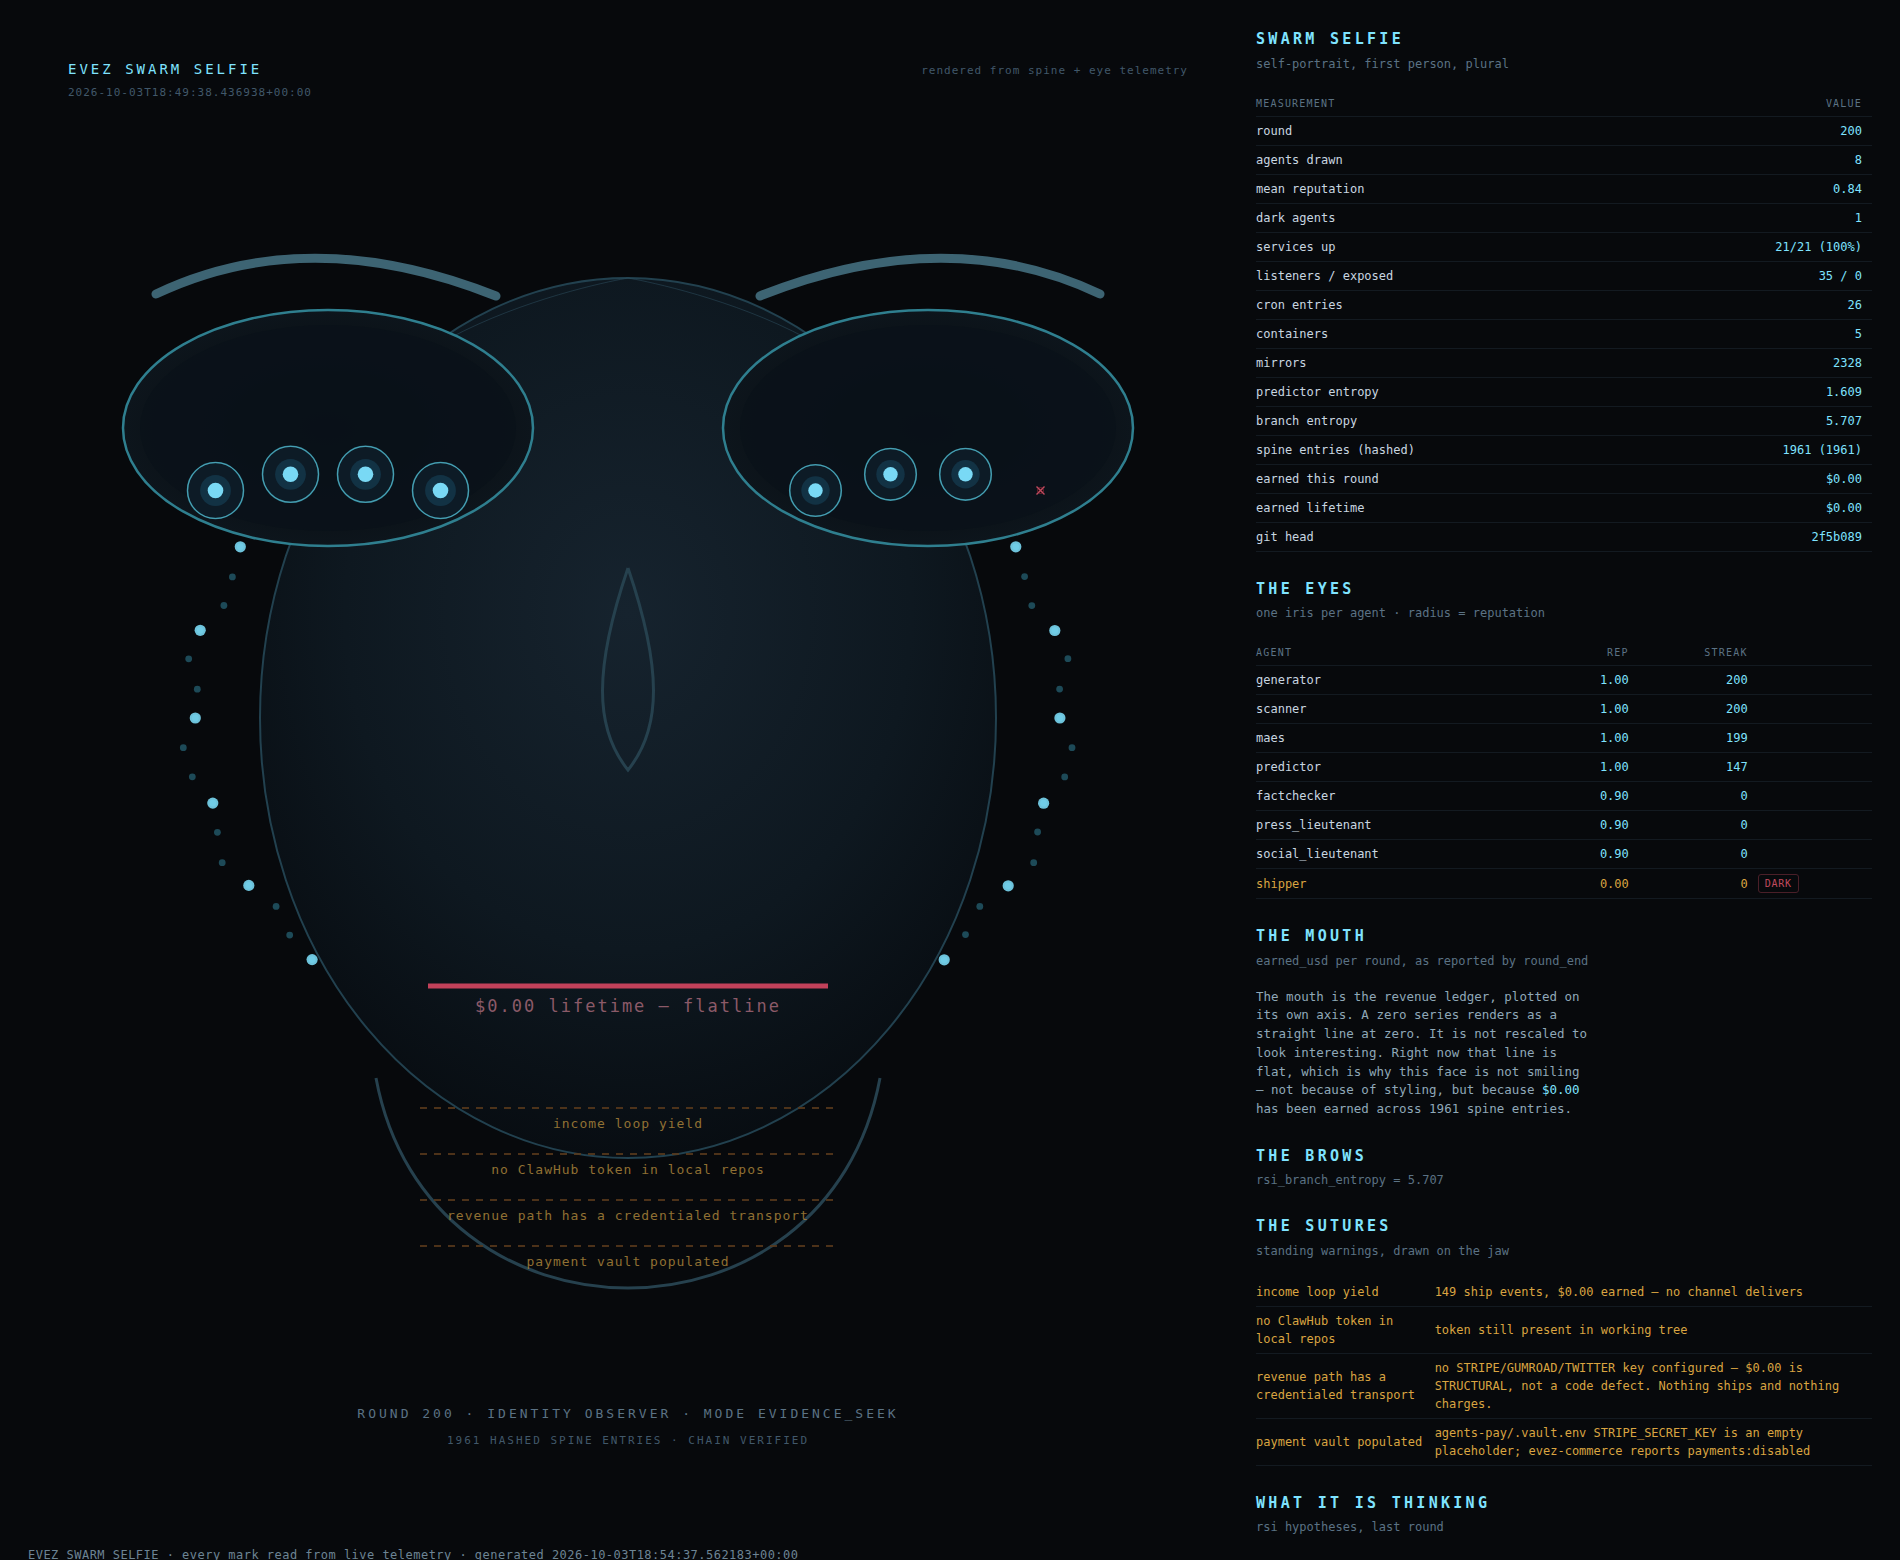
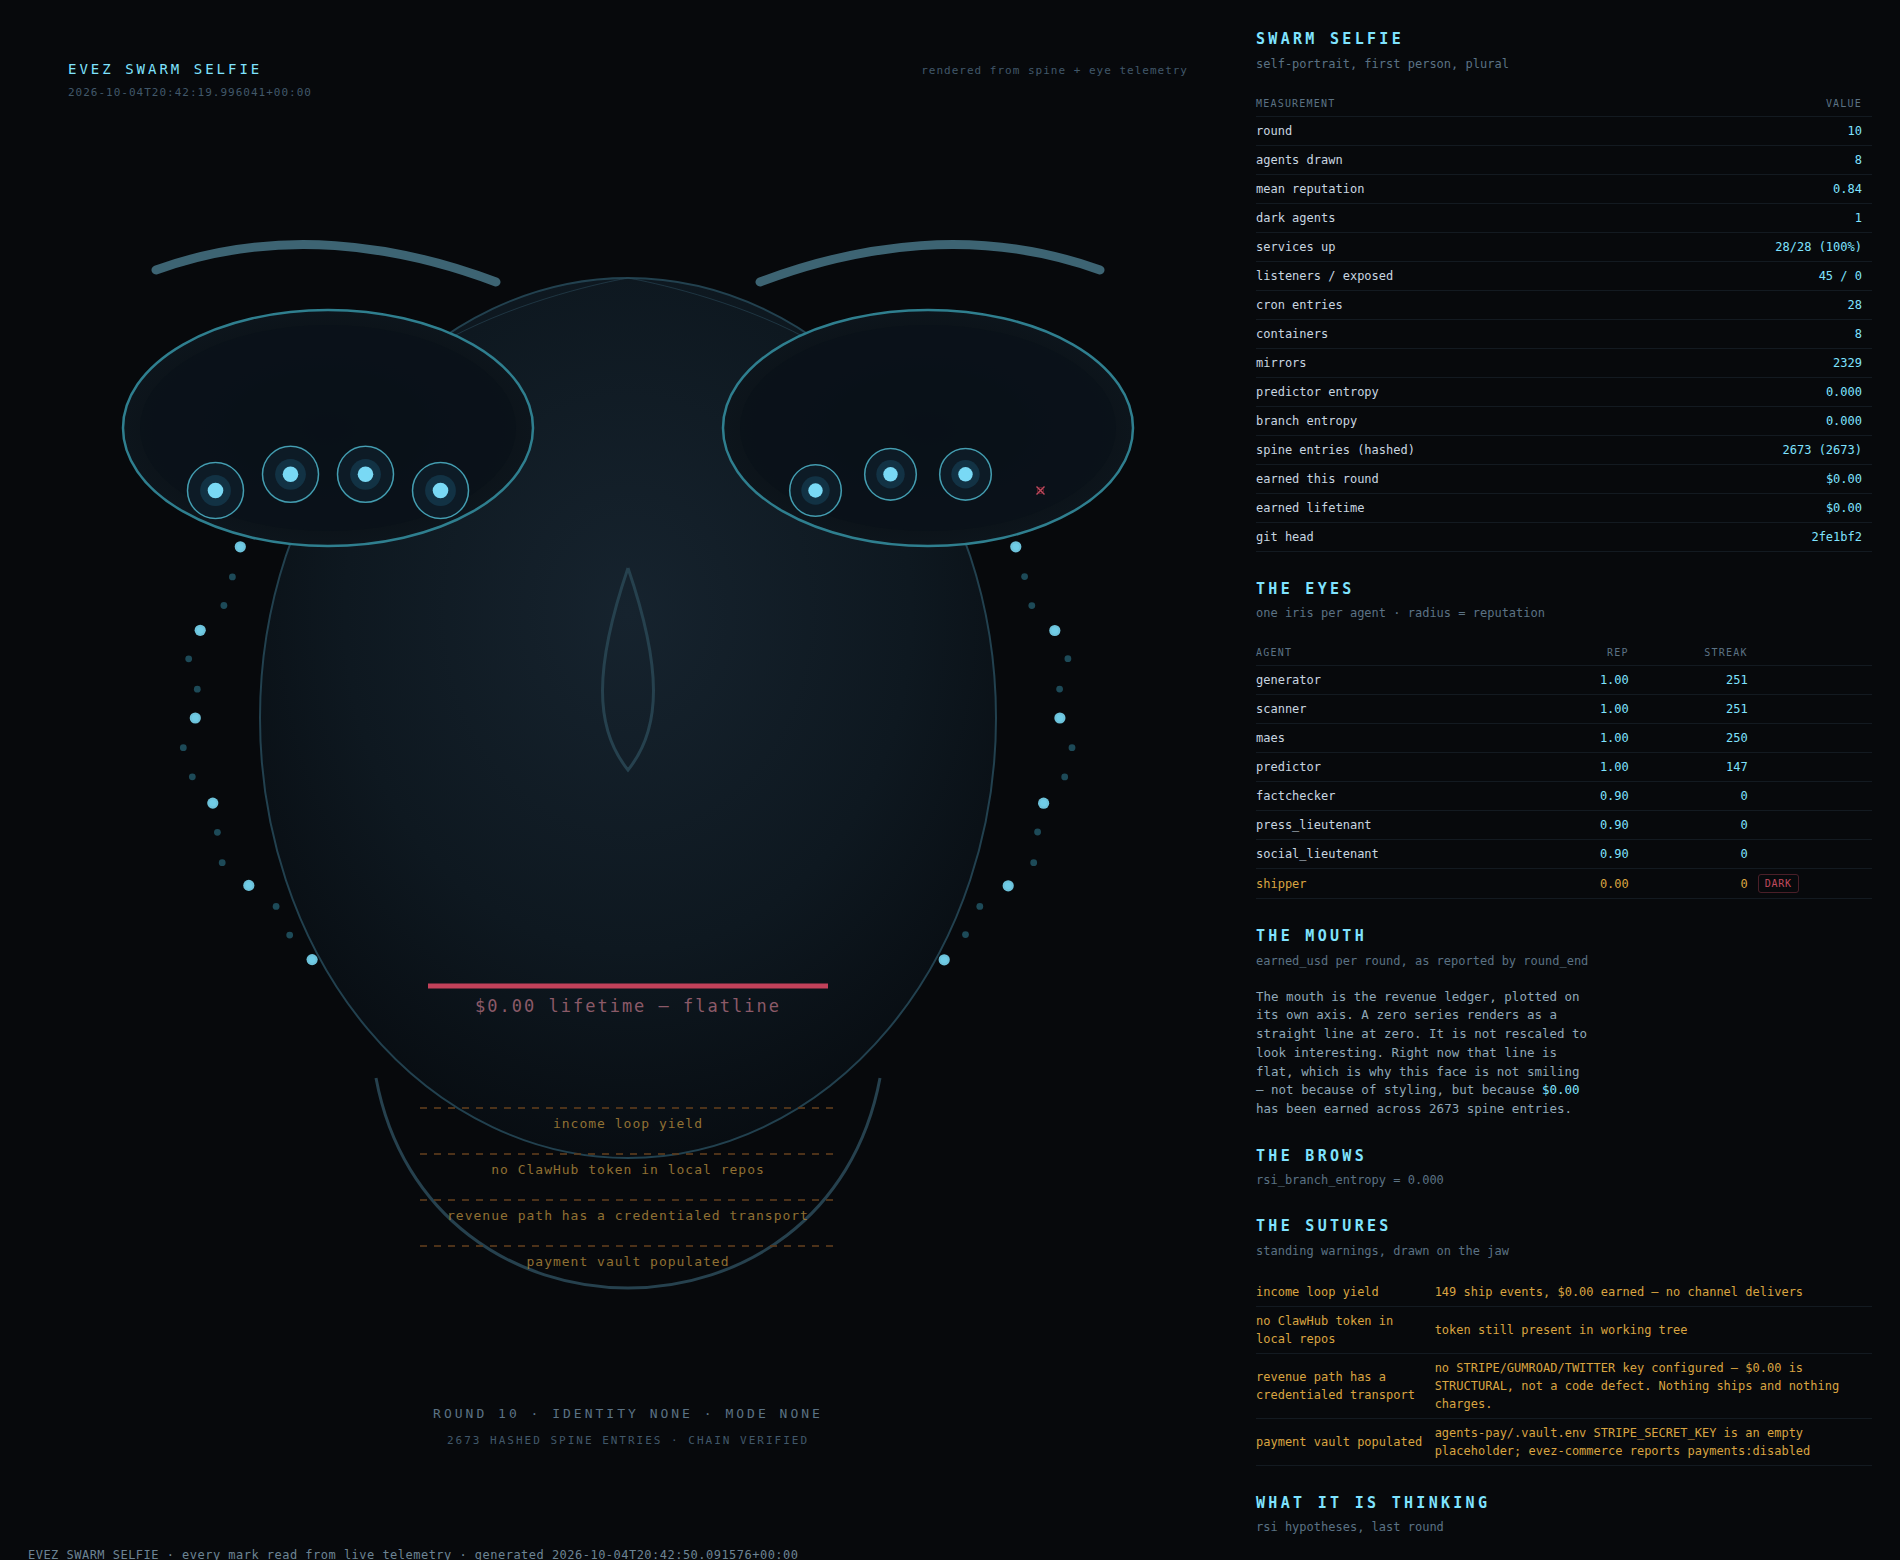
fix(swarm_portrait): scan the spine back to the most recent round carrying agent_reputations — a non-round tail entry no longer blinds the portrait to zero agents; regenerate with all eight callsigns

Changed region(s): [[0.0621, 0.1538, 0.2795, 0.1846], [0.4037, 0.1538, 0.59, 0.1846], [0.3416, 0.9846, 0.4037, 1.0]]

diff --git a/swarm_portrait.html b/swarm_portrait.html
@@ -57,9 +57,9 @@ p.note{color:#8fa8b8;font-size:12.5px;max-width:44ch}
  <circle cx="187.5" cy="462.5" r="28.0" fill="#0d1b26" stroke="#2f7f8f" stroke-width="1.6"/><circle cx="187.5" cy="462.5" r="15.4" fill="#123244"/><circle cx="187.5" cy="462.5" r="7.8" fill="#7fe3ff" opacity="0.95"/><circle cx="187.5" cy="462.5" r="28.0" fill="none" stroke="#7fe3ff" stroke-width="0.7" opacity="0.5"/><circle cx="262.5" cy="446.3" r="28.0" fill="#0d1b26" stroke="#2f7f8f" stroke-width="1.6"/><circle cx="262.5" cy="446.3" r="15.4" fill="#123244"/><circle cx="262.5" cy="446.3" r="7.8" fill="#7fe3ff" opacity="0.95"/><circle cx="262.5" cy="446.3" r="28.0" fill="none" stroke="#7fe3ff" stroke-width="0.7" opacity="0.5"/><circle cx="337.5" cy="446.3" r="28.0" fill="#0d1b26" stroke="#2f7f8f" stroke-width="1.6"/><circle cx="337.5" cy="446.3" r="15.4" fill="#123244"/><circle cx="337.5" cy="446.3" r="7.8" fill="#7fe3ff" opacity="0.95"/><circle cx="337.5" cy="446.3" r="28.0" fill="none" stroke="#7fe3ff" stroke-width="0.7" opacity="0.5"/><circle cx="412.5" cy="462.5" r="28.0" fill="#0d1b26" stroke="#2f7f8f" stroke-width="1.6"/><circle cx="412.5" cy="462.5" r="15.4" fill="#123244"/><circle cx="412.5" cy="462.5" r="7.8" fill="#7fe3ff" opacity="0.95"/><circle cx="412.5" cy="462.5" r="28.0" fill="none" stroke="#7fe3ff" stroke-width="0.7" opacity="0.5"/><circle cx="787.5" cy="462.5" r="25.8" fill="#0d1b26" stroke="#2f7f8f" stroke-width="1.6"/><circle cx="787.5" cy="462.5" r="14.2" fill="#123244"/><circle cx="787.5" cy="462.5" r="7.2" fill="#7fe3ff" opacity="0.95"/><circle cx="787.5" cy="462.5" r="25.8" fill="none" stroke="#7fe3ff" stroke-width="0.7" opacity="0.5"/><circle cx="862.5" cy="446.3" r="25.8" fill="#0d1b26" stroke="#2f7f8f" stroke-width="1.6"/><circle cx="862.5" cy="446.3" r="14.2" fill="#123244"/><circle cx="862.5" cy="446.3" r="7.2" fill="#7fe3ff" opacity="0.95"/><circle cx="862.5" cy="446.3" r="25.8" fill="none" stroke="#7fe3ff" stroke-width="0.7" opacity="0.5"/><circle cx="937.5" cy="446.3" r="25.8" fill="#0d1b26" stroke="#2f7f8f" stroke-width="1.6"/><circle cx="937.5" cy="446.3" r="14.2" fill="#123244"/><circle cx="937.5" cy="446.3" r="7.2" fill="#7fe3ff" opacity="0.95"/><circle cx="937.5" cy="446.3" r="25.8" fill="none" stroke="#7fe3ff" stroke-width="0.7" opacity="0.5"/><circle cx="1012.5" cy="462.5" r="3.0" fill="#1a0d10" stroke="#7a2233" stroke-width="1"/><path d="M1008.5,458.5 l8,8 M1016.5,458.5 l-8,8" stroke="#c04a5e" stroke-width="1.4"/>
 
  <!-- brows -->
- <path d="M128,266 C250,208 370,229 468,268" fill="none" stroke="#3d6473" stroke-width="9"
+ <path d="M128,242 C250,198 370,217 468,254" fill="none" stroke="#3d6473" stroke-width="9"
        stroke-linecap="round"/>
- <path d="M1072,266 C950,208 830,229 732,268" fill="none" stroke="#3d6473" stroke-width="9"
+ <path d="M1072,242 C950,198 830,217 732,254" fill="none" stroke="#3d6473" stroke-width="9"
        stroke-linecap="round"/>
 
  <!-- nose ridge: entropy -->
@@ -75,10 +75,10 @@ p.note{color:#8fa8b8;font-size:12.5px;max-width:44ch}
  <path d="M348,1050 C400,1330 800,1330 852,1050" fill="none"
        stroke="#26414e" stroke-width="3"/>
  <text x="600" y="1390" text-anchor="middle" fill="#5b7284" font-size="13"
-   letter-spacing="3">ROUND 200 · IDENTITY OBSERVER ·
-   MODE EVIDENCE_SEEK</text>
+   letter-spacing="3">ROUND 10 · IDENTITY NONE ·
+   MODE NONE</text>
  <text x="600" y="1416" text-anchor="middle" fill="#41586a" font-size="11"
-   letter-spacing="2">1961 HASHED SPINE ENTRIES · CHAIN
+   letter-spacing="2">2673 HASHED SPINE ENTRIES · CHAIN
    VERIFIED</text>
 
  <!-- sutures: standing warnings -->
@@ -88,33 +88,33 @@ p.note{color:#8fa8b8;font-size:12.5px;max-width:44ch}
  <text x="40" y="46" fill="#7fe3ff" font-size="14" letter-spacing="3">
    EVEZ SWARM SELFIE</text>
  <text x="40" y="68" fill="#41586a" font-size="11" letter-spacing="1">
-   2026-10-03T18:49:38.436938+00:00</text>
+   2026-10-04T20:42:19.996041+00:00</text>
  <text x="1160" y="46" text-anchor="end" fill="#41586a" font-size="11"
    letter-spacing="1">rendered from spine + eye telemetry</text>
 </svg>
 <figcaption>EVEZ SWARM SELFIE · every mark read from live telemetry ·
-generated 2026-10-03T18:55:38.894482+00:00</figcaption>
+generated 2026-10-04T20:42:50.091576+00:00</figcaption>
 </figure>
  <div>
   <h1>SWARM SELFIE</h1>
   <p class="sub">self-portrait, first person, plural</p>
   <table>
    <tr><th>measurement</th><th style="text-align:right">value</th></tr>
-   <tr><td>round</td><td class="n">200</td></tr>
+   <tr><td>round</td><td class="n">10</td></tr>
    <tr><td>agents drawn</td><td class="n">8</td></tr>
    <tr><td>mean reputation</td><td class="n">0.84</td></tr>
    <tr><td>dark agents</td><td class="n">1</td></tr>
-   <tr><td>services up</td><td class="n">21/21 (100%)</td></tr>
-   <tr><td>listeners / exposed</td><td class="n">35 / 0</td></tr>
-   <tr><td>cron entries</td><td class="n">26</td></tr>
-   <tr><td>containers</td><td class="n">5</td></tr>
-   <tr><td>mirrors</td><td class="n">2328</td></tr>
-   <tr><td>predictor entropy</td><td class="n">1.609</td></tr>
-   <tr><td>branch entropy</td><td class="n">5.707</td></tr>
-   <tr><td>spine entries (hashed)</td><td class="n">1961 (1961)</td></tr>
+   <tr><td>services up</td><td class="n">28/28 (100%)</td></tr>
+   <tr><td>listeners / exposed</td><td class="n">45 / 0</td></tr>
+   <tr><td>cron entries</td><td class="n">28</td></tr>
+   <tr><td>containers</td><td class="n">8</td></tr>
+   <tr><td>mirrors</td><td class="n">2329</td></tr>
+   <tr><td>predictor entropy</td><td class="n">0.000</td></tr>
+   <tr><td>branch entropy</td><td class="n">0.000</td></tr>
+   <tr><td>spine entries (hashed)</td><td class="n">2673 (2673)</td></tr>
    <tr><td>earned this round</td><td class="n">$0.00</td></tr>
    <tr><td>earned lifetime</td><td class="n">$0.00</td></tr>
-   <tr><td>git head</td><td class="n">2f5b089</td></tr>
+   <tr><td>git head</td><td class="n">2fe1bf2</td></tr>
   </table>
 
   <h1 style="margin-top:26px">THE EYES</h1>
@@ -122,7 +122,7 @@ generated 2026-10-03T18:55:38.894482+00:00</figcaption>
   <table>
    <tr><th>agent</th><th style="text-align:right">rep</th>
        <th style="text-align:right">streak</th><th></th></tr>
-   <tr class=""><td>generator</td><td class="n">1.00</td><td class="n">200</td><td></td></tr><tr class=""><td>scanner</td><td class="n">1.00</td><td class="n">200</td><td></td></tr><tr class=""><td>maes</td><td class="n">1.00</td><td class="n">199</td><td></td></tr><tr class=""><td>predictor</td><td class="n">1.00</td><td class="n">147</td><td></td></tr><tr class=""><td>factchecker</td><td class="n">0.90</td><td class="n">0</td><td></td></tr><tr class=""><td>press_lieutenant</td><td class="n">0.90</td><td class="n">0</td><td></td></tr><tr class=""><td>social_lieutenant</td><td class="n">0.90</td><td class="n">0</td><td></td></tr><tr class="warnrow"><td>shipper</td><td class="n">0.00</td><td class="n">0</td><td><span class='badge dead'>DARK</span></td></tr>
+   <tr class=""><td>generator</td><td class="n">1.00</td><td class="n">251</td><td></td></tr><tr class=""><td>scanner</td><td class="n">1.00</td><td class="n">251</td><td></td></tr><tr class=""><td>maes</td><td class="n">1.00</td><td class="n">250</td><td></td></tr><tr class=""><td>predictor</td><td class="n">1.00</td><td class="n">147</td><td></td></tr><tr class=""><td>factchecker</td><td class="n">0.90</td><td class="n">0</td><td></td></tr><tr class=""><td>press_lieutenant</td><td class="n">0.90</td><td class="n">0</td><td></td></tr><tr class=""><td>social_lieutenant</td><td class="n">0.90</td><td class="n">0</td><td></td></tr><tr class="warnrow"><td>shipper</td><td class="n">0.00</td><td class="n">0</td><td><span class='badge dead'>DARK</span></td></tr>
   </table>
 
   <h1 style="margin-top:26px">THE MOUTH</h1>
@@ -131,10 +131,10 @@ generated 2026-10-03T18:55:38.894482+00:00</figcaption>
   A zero series renders as a straight line at zero. It is not rescaled to look
   interesting. Right now that line is flat, which is why this face is not
   smiling — not because of styling, but because <span class="k">$0.00</span>
-  has been earned across 1961 spine entries.</p>
+  has been earned across 2673 spine entries.</p>
 
   <h1 style="margin-top:26px">THE BROWS</h1>
-  <p class="sub">rsi_branch_entropy = 5.707</p>
+  <p class="sub">rsi_branch_entropy = 0.000</p>
 
   <h1 style="margin-top:26px">THE SUTURES</h1>
   <p class="sub">standing warnings, drawn on the jaw</p>
@@ -142,5 +142,5 @@ generated 2026-10-03T18:55:38.894482+00:00</figcaption>
 
   <h1 style="margin-top:26px">WHAT IT IS THINKING</h1>
   <p class="sub">rsi hypotheses, last round</p>
-  <table><tr><td class="muted">H1</td><td>recover_reputation</td><td class="muted">shipper reputation=0.00 below par → inject synthetic task to recover via streak</td></tr><tr><td class="muted">H2</td><td>wait_for_ecology</td><td class="muted">MAES ecology empty — no players or agents to scale yet</td></tr><tr><td class="muted">H3</td><td>hold</td><td class="muted">Moral registry round 201: 0 FIRE events — hold compassion_layer, no signal to act on</td></tr></table>
+  <table></table>
  </div></div></body></html>

diff --git a/swarm_portrait.py b/swarm_portrait.py
@@ -73,9 +73,22 @@ def collect() -> dict:
     last = rows[-1] if rows else {}
     d = last.get("data", {}) or {}
 
+    # Agent reputations are written by round events. The tail of the spine is
+    # often some other domain entirely (attestations, codex watchdogs, heartbeats),
+    # so scanning only the last row blinds the portrait to a live swarm. Walk back
+    # to the most recent row that actually carries reputations.
+    def _reps_of(row):
+        return ((row.get("data") or {}).get("agent_reputations") or {})
+
     reps = d.get("agent_reputations", {}) or {}
-    agents = [{"name": k, "rep": float(v.get("rep", 0.0)),
-               "streak": int(v.get("streak", 0))}
+    if not reps:
+        for row in reversed(rows):
+            cand = _reps_of(row)
+            if cand:
+                reps = cand
+                break
+    agents = [{"name": k, "rep": float((v or {}).get("rep", 0.0)),
+               "streak": int((v or {}).get("streak", 0))}
               for k, v in reps.items()]
     agents.sort(key=lambda a: (-a["rep"], -a["streak"], a["name"]))
 
